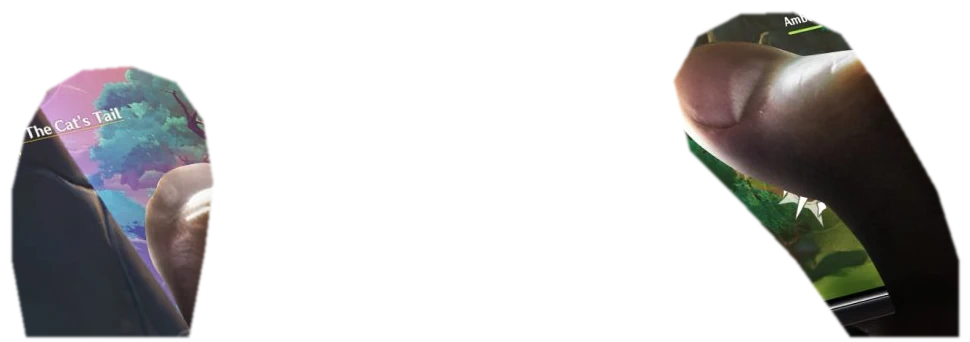
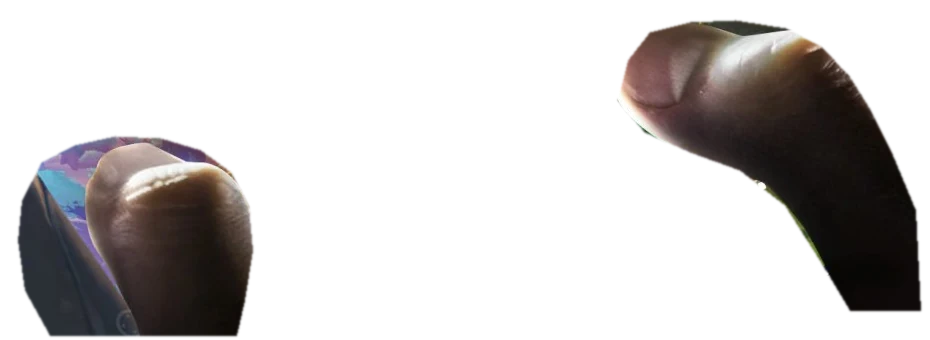
Nexa Pro: thumb cut-out traced tight to the skin (no slab of the old screen over the video)

Changed region(s): [[0.0, 0.1765, 0.2806, 1.0], [0.6548, 0.0294, 0.9978, 1.0]]

diff --git a/src/app/(nexaphone)/nexaphone/page.tsx b/src/app/(nexaphone)/nexaphone/page.tsx
@@ -25,7 +25,7 @@ export default function NexaPhonePage() {
       <Nav dock={false} />
       <main>
         <Hero />
-        <PhoneInHands photo="/nexaphone/placeholder/hands.jpg" thumbs="/nexaphone/placeholder/hands-thumbs.webp" thumbsBox={[270, 570, 970, 342]} video="/nexaphone/placeholder/hands-loop.mp4" size={[1452, 1452]} corners={[[104, 556], [1108, 392], [1224, 874], [210, 906]]} from="dark" to="light" focus={[0.5, 0.45]} />
+        <PhoneInHands photo="/nexaphone/placeholder/hands.jpg" thumbs="/nexaphone/placeholder/hands-thumbs.webp" thumbsBox={[330, 590, 930, 340]} video="/nexaphone/placeholder/hands-loop.mp4" size={[1452, 1452]} corners={[[104, 556], [1108, 392], [1224, 874], [210, 906]]} from="dark" to="light" focus={[0.5, 0.45]} />
         <ShopRail />
         <Junction src="/nexaphone/placeholder/shards.jpg" from="light" to="dark" focus="50% 50%" />
         <DeadBars />
